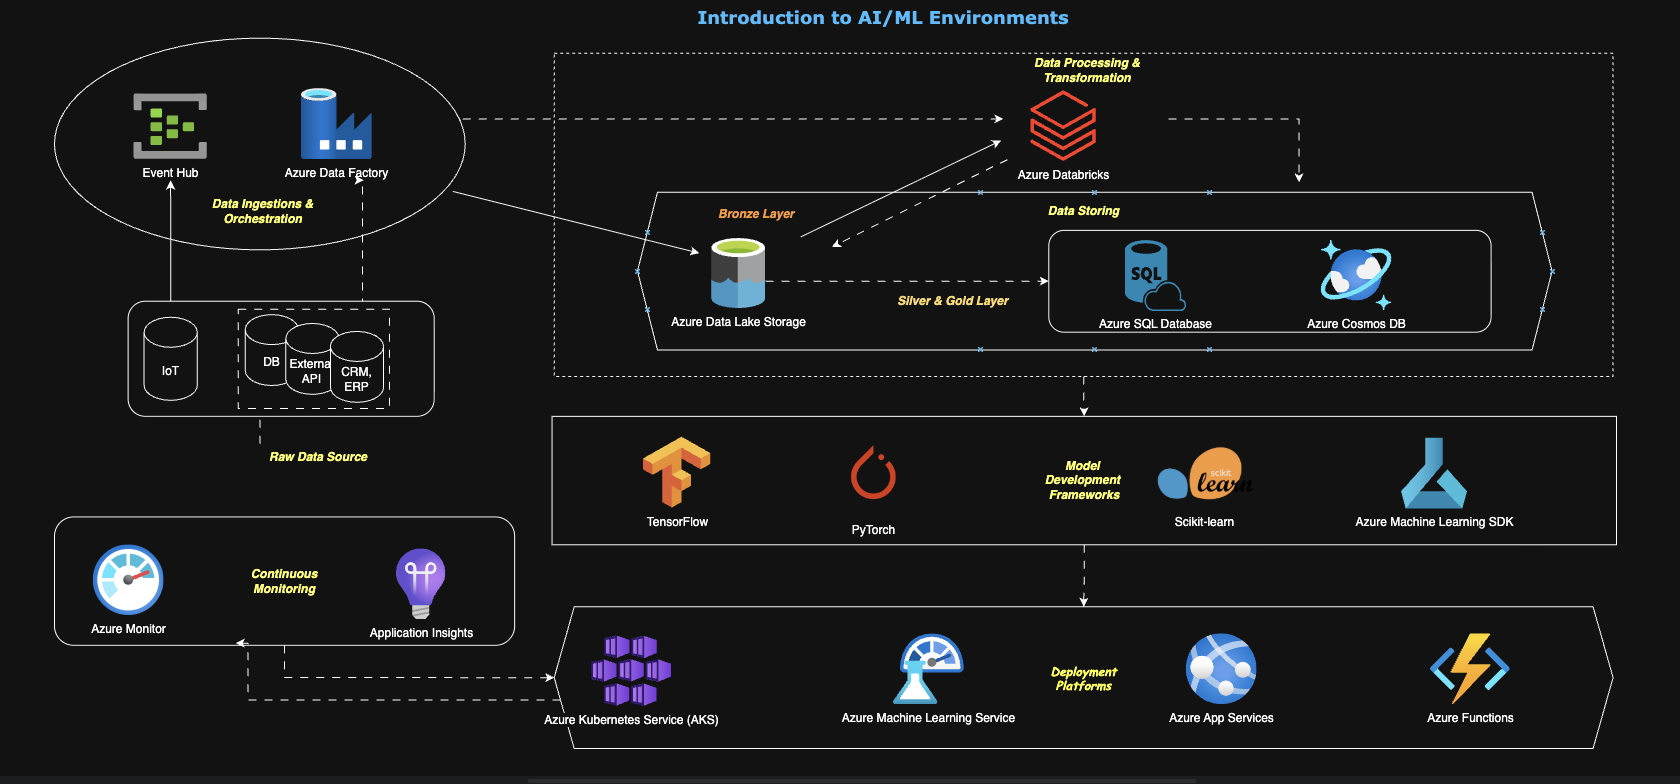
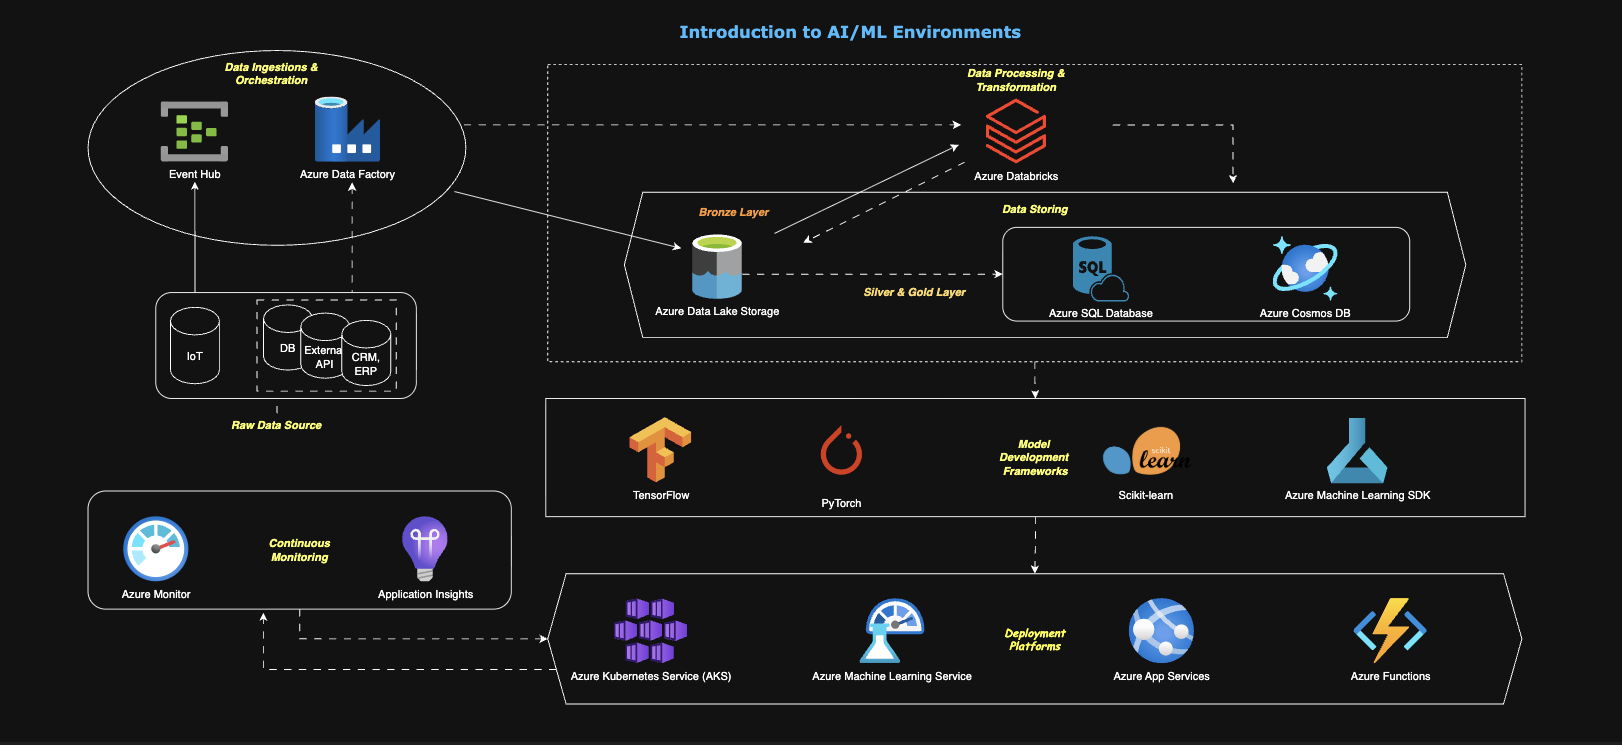
feat: set the module page like an article, and give it notes
The breakdown was a grid of bordered cards; it is now headings and labelled lists set with the blog's typography, which is what a module explanation wants. The diagram is swapped for the cleaner redraw.

Every content page now shares one measure: /next and its three levels, /blog and its posts all use the home sections' max-w-6xl, so the site no longer alternates between a narrow reading column and a wide one. Below the breakdown, a notes section carries the module's own material, condensed into markdown blocks and rendered by the same component the blog uses.

diff --git a/app/data/roadmap.ts b/app/data/roadmap.ts
@@ -22,6 +22,12 @@ export type RoadmapModule = {
    * picture says what is there; this says what each part is for.
    */
   breakdown: { group: string; items: { name: string; role: string }[] }[];
+  /**
+   * The module's own material, condensed, as markdown blocks. Rendered after
+   * the breakdown: the diagram and the list say what the module contains, this
+   * says what it means.
+   */
+  notes: string[];
 };
 
 export type RoadmapCourse = {
@@ -84,8 +90,8 @@ export const roadmapSteps: RoadmapStep[] = [
               alt: "Diagram of the Azure AI/ML environment: Event Hub and Data Factory ingesting IoT, database, external API and CRM/ERP sources into Databricks over a Data Lake with bronze, silver and gold layers, SQL Database and Cosmos DB as stores, TensorFlow, PyTorch, scikit-learn and the Azure Machine Learning SDK for model development, and AKS, Azure Machine Learning Service, App Service and Functions behind Monitor and Application Insights.",
               caption: "The Azure AI/ML environment, end to end.",
               credit: "Diagrammed by Frank Angelo Malubag",
-              width: 1680,
-              height: 784,
+              width: 1622,
+              height: 745,
             },
             breakdown: [
               {
@@ -203,6 +209,15 @@ export const roadmapSteps: RoadmapStep[] = [
                   },
                 ],
               },
+            ],
+            notes: [
+              "### What the module is about\n\nAI/ML infrastructure is the cloud-based tools, services and resources that carry a model through its entire lifecycle. The course frames it as three pillars, and the argument is that infrastructure comes before technique.\n\n- **Data pipelines**: how data is ingested, processed, stored and served to models.\n- **Model development frameworks**: the libraries that build, train and evaluate models.\n- **Deployment platforms**: the services that put a trained model into production.\n\nBefore supervised learning or pre-trained LLMs, you need to know how data flows through systems, how models are built inside frameworks, and how they reach production.",
+              "### The working environment\n\nThe course runs in Azure Machine Learning Studio. The lab is set up in four moves:\n\n- **Workspace**: create one at ml.azure.com, then add a notebook.\n- **Kernel**: select the Python - AzureML kernel, which carries the machine learning libraries the course uses.\n- **Resources**: the lab runs on a resource group with virtual machines and SSH access.\n- **Reproducibility**: save the setup as an Azure Resource Manager template so it can be recreated.",
+              "### Data sources and pipelines\n\nA pipeline is a series of automated processes that move data from source to destination, transforming it along the way. Sources come in four kinds:\n\n- **Relational databases**: SQL Server, MySQL, PostgreSQL.\n- **NoSQL stores**: Azure Cosmos DB, MongoDB.\n- **Cloud object storage**: Azure Blob Storage, Amazon S3.\n- **Real-time streams**: IoT sensors, APIs.\n\nThe pipeline then runs through four stages:\n\n- **Ingestion**: collects the data, in real time or in batches; Azure Data Factory schedules and orchestrates it.\n- **Processing and transformation**: cleans, normalises, aggregates and engineers features; Azure Databricks, built on Apache Spark, does the heavy work.\n- **Storage**: Azure Data Lake Storage for raw unstructured data, Azure SQL Database for structured data that needs advanced queries, Azure Blob Storage for files and media.\n- **Access and utilisation**: Azure Machine Learning trains the models, Power BI reports on them.\n\nModel quality is bounded by data quality, which is why the pipeline comes first.",
+              "### Choosing a framework\n\nModel development is the cycle of selecting an algorithm, training on data while tuning hyperparameters, and evaluating until the model generalises to new data. Four frameworks dominate:\n\n- **TensorFlow**: deep learning, with eager execution for prototyping and graph execution for optimised runs; TensorFlow Serving for production.\n- **PyTorch**: the research favourite, with dynamic computation graphs that are easier to debug; TorchScript for deployment.\n- **scikit-learn**: traditional machine learning, with regression, classification, clustering, preprocessing and evaluation behind one consistent API.\n- **Azure Machine Learning SDK**: the Azure-native layer, integrating with Data Factory, Databricks and AKS; AutoML for baselines, experiment tracking and managed deployment.\n\nThe selection factors are the nature of the problem, data type and size, performance requirements, ease of use, deployment and maintenance, and total cost of ownership.",
+              "### Choosing a deployment platform\n\nDeployment takes a trained model and makes it available in a real environment: as a service, inside a web application, or on a device. Azure offers four routes:\n\n- **Azure Kubernetes Service**: containerises the model and runs it across a cluster, with autoscaling, load balancing and high availability; suits large-scale, high-traffic systems.\n- **Azure Machine Learning Service**: deploys a model as a RESTful endpoint in a few clicks; adds automated machine learning and model management.\n- **Azure App Service**: hosts web applications and APIs with built-in scaling, security and monitoring.\n- **Azure Functions**: serverless and event-driven, so you pay per execution and the model runs only when triggered.\n\nSix factors decide the choice: deployment speed, cost efficiency, ease of use, scalability, updates and maintenance, and security and compliance. The module's tips follow from those factors:\n\n- Azure Machine Learning Service for rapid prototyping and low-latency predictions.\n- Azure Functions or Azure Container Instances for infrequent or temporary deployments.\n- AKS for enterprise scale, and reserved instances for long-term runs.",
+              "### Monitoring and maintenance\n\nDeployment is not the end of the loop. Two services watch a deployed model:\n\n- **Azure Monitor**: platform metrics and logs across every Azure resource.\n- **Application Insights**: application telemetry, meaning requests, dependencies, exceptions and user flows.\n\nAzure DevOps sits beside them for continuous integration and deployment, so updates, rollbacks and testing are automated rather than manual. The module points onward from here to model observability and drift detection as the next layer of the same problem.",
+              "### How the course is assessed\n\nThe course is graded in six parts:\n\n- **Five quizzes, 15% each**: AI/ML applications; data management in AI/ML; selecting a framework; platform deployment; AI/ML concepts in practice.\n- **One peer review, 25%**: draft your pitch to the C-suite.\n\nIt is the first of five courses in the Microsoft AI & ML Engineering Professional Certificate:\n\n- AI and Machine Learning Algorithms and Techniques.\n- Building Intelligent Troubleshooting Agents.\n- Microsoft Azure for AI and Machine Learning.\n- Advanced AI and Machine Learning Techniques and Capstone.",
             ],
           },
         ],

diff --git a/app/next/[slug]/[course]/[module]/page.tsx b/app/next/[slug]/[course]/[module]/page.tsx
@@ -6,6 +6,7 @@ import { canonical } from "../../../../lib/siteUrl";
 import { ogImage } from "../../../../lib/ogImage";
 import TrackClose from "../../../../components/TrackClose";
 import RoadmapFigure from "../../../../components/RoadmapFigure";
+import { Markdown } from "../../../../lib/markdown";
 
 export function generateStaticParams() {
   return roadmapSteps.flatMap((step) =>
@@ -62,7 +63,7 @@ export default async function RoadmapModulePage({
 
   return (
     <main className="px-4 sm:px-6 pt-28 pb-24 min-h-screen">
-      <div className="mx-auto max-w-6xl">
+      <article className="mx-auto max-w-6xl">
         <Link
           href={`/next/${step.id}/${course.slug}`}
           className="text-xs text-slate-400 hover:text-slate-300 transition-colors"
@@ -77,40 +78,50 @@ export default async function RoadmapModulePage({
           <h1 className="text-3xl md:text-4xl font-black tracking-tight font-display text-slate-100 leading-tight">
             {mod.title}
           </h1>
-          <p className="text-sm md:text-base text-slate-400 leading-relaxed max-w-2xl">
+          <p className="text-sm md:text-base text-slate-400 leading-relaxed">
             {mod.summary}
           </p>
         </header>
 
         {/* The picture the breakdown refers to, so the page stands alone. */}
-        {mod.image ? <RoadmapFigure image={mod.image} /> : null}
+        {mod.image ? (
+          <div className="my-6">
+            <RoadmapFigure image={mod.image} />
+          </div>
+        ) : null}
 
-        {/* The breakdown: every component the diagram lists, and what it is
-            actually for. Grouped the way the diagram groups them. */}
-        <section className="mt-10 mb-12 space-y-8">
+        {/* The breakdown, set like an article's lists: a heading per group from
+            the diagram, then the components in it and what each is for. */}
+        <section className="mt-8 mb-12">
           {mod.breakdown.map((group) => (
-            <div key={group.group} className="space-y-3">
-              <h2 className="text-xs font-mono uppercase tracking-widest text-[#5f93a8]">
+            <div key={group.group} className="mt-6 first:mt-0">
+              <h2 className="text-xl font-semibold text-slate-100 mb-2">
                 {group.group}
               </h2>
-              <ul className="grid gap-3 sm:grid-cols-2 lg:grid-cols-3">
+              <ul className="list-disc list-inside space-y-1.5 my-3 text-sm text-slate-300 leading-relaxed marker:text-[#5f93a8]">
                 {group.items.map((item) => (
-                  <li
-                    key={item.name}
-                    className="p-3 rounded-lg bg-slate-900/40 border border-slate-800/60"
-                  >
-                    <p className="text-sm font-semibold text-slate-100">
+                  <li key={item.name}>
+                    <strong className="text-slate-100 font-semibold">
                       {item.name}
-                    </p>
-                    <p className="mt-1 text-sm text-slate-400 leading-relaxed">
-                      {item.role}
-                    </p>
+                    </strong>
+                    : {item.role}
                   </li>
                 ))}
               </ul>
             </div>
           ))}
         </section>
+
+        {/* The module's own material, condensed, below the breakdown: what the
+            module means rather than what it contains. */}
+        {mod.notes.length > 0 ? (
+          <section className="mt-10 mb-12">
+            <h2 className="text-xl font-semibold text-slate-100 mb-3">
+              Module notes
+            </h2>
+            <Markdown content={mod.notes.join("\n\n")} />
+          </section>
+        ) : null}
 
         <TrackClose
           note="This is the breakdown of the diagram above: what each component is, and why it sits where it does in the pipeline. The course page carries the picture; the certificate page carries the plan it belongs to."
@@ -121,7 +132,7 @@ export default async function RoadmapModulePage({
             { label: "Get in touch", href: "/#contact" },
           ]}
         />
-      </div>
+      </article>
     </main>
   );
 }

diff --git a/app/blog/[slug]/page.tsx b/app/blog/[slug]/page.tsx
@@ -54,7 +54,7 @@ export default async function BlogPost({
 
   return (
     <main className="px-4 sm:px-6 pt-28 pb-24 min-h-screen">
-      <article className="mx-auto max-w-3xl">
+      <article className="mx-auto max-w-6xl">
         {/* Article entity, attached to the Person entity declared site-wide so
             the posts are attributable to the same author. */}
         <script

diff --git a/app/next/page.tsx b/app/next/page.tsx
@@ -22,7 +22,7 @@ export const metadata: Metadata = {
 export default function NextPage() {
   return (
     <main className="px-4 sm:px-6 pt-28 pb-24 min-h-screen">
-      <div className="mx-auto max-w-3xl">
+      <div className="mx-auto max-w-6xl">
         <Link
           href="/"
           className="text-xs text-slate-400 hover:text-slate-300 transition-colors"

diff --git a/app/next/[slug]/page.tsx b/app/next/[slug]/page.tsx
@@ -57,7 +57,7 @@ export default async function RoadmapStepPage({
 
   return (
     <main className="px-4 sm:px-6 pt-28 pb-24 min-h-screen">
-      <div className="mx-auto max-w-3xl">
+      <div className="mx-auto max-w-6xl">
         <Link
           href="/next"
           className="text-xs text-slate-400 hover:text-slate-300 transition-colors"

diff --git a/app/blog/page.tsx b/app/blog/page.tsx
@@ -17,7 +17,7 @@ export default function BlogArchive() {
 
   return (
     <main className="px-4 sm:px-6 pt-28 pb-24 min-h-screen">
-      <div className="mx-auto max-w-3xl">
+      <div className="mx-auto max-w-6xl">
         <Link
           href="/"
           className="text-xs text-slate-400 hover:text-slate-300 transition-colors"

diff --git a/README.md b/README.md
@@ -149,7 +149,7 @@ Below the library, `ReadingPlan.tsx` renders the priority order for the AI engin
 
 `/next` is a forward-looking page: six steps in three phases. The foundation first (the Microsoft AI & ML Engineering Professional Certificate, then the DeepLearning.AI Machine Learning Specialization), then the platform and the applied layer (the AWS Cloud Solutions Architect and AWS Generative AI Developer Advanced Professional Certificates), then LangChain Academy and Stanford CS221. Content lives in `app/data/roadmap.ts`. Every step carries an `order` phase label, and the page closes with the shared `TrackClose` "where this fits" block.
 
-Each step also has its own page at `/next/[slug]` (`app/next/[slug]/page.tsx`, static through `generateStaticParams`, with per-page metadata and canonical), and beneath it two more levels: `/next/[slug]/[course]` (`app/next/[slug]/[course]/page.tsx`) carries the course's summary and indexes its modules, each as a `RoadmapModuleCard` stacking that module's diagram under its hook; `/next/[slug]/[course]/[module]` (`app/next/[slug]/[course]/[module]/page.tsx`) is the module's breakdown, one card per component the diagram lists, grouped the way the diagram groups them. Both diagram pages use the home sections' `max-w-6xl` measure rather than the narrow reading column, because the figure is the point of those pages. The summary stays next to the picture on purpose: an image of text is neither screen-reader readable nor indexable, so the figure illustrates rather than replaces it. The sitemap derives all three levels from `roadmapSteps` the way it does posts.
+Each step also has its own page at `/next/[slug]` (`app/next/[slug]/page.tsx`, static through `generateStaticParams`, with per-page metadata and canonical), and beneath it two more levels: `/next/[slug]/[course]` (`app/next/[slug]/[course]/page.tsx`) carries the course's summary and indexes its modules, each as a `RoadmapModuleCard` stacking that module's diagram under its hook; `/next/[slug]/[course]/[module]` (`app/next/[slug]/[course]/[module]/page.tsx`) is the module's breakdown, set like a blog article — a heading and list per group the diagram shows, the components named and their part in the pipeline explained, with no card chrome — and below that a `notes` block: the module's own material condensed into markdown sections, rendered by the same `Markdown` component the blog uses. Every content page — `/next` and its three levels, `/blog` and its posts — uses the home sections' `max-w-6xl` measure, so the site has one column width rather than a narrow reading column beside wide ones. The summary stays next to the picture on purpose: an image of text is neither screen-reader readable nor indexable, so the figure illustrates rather than replaces it. The sitemap derives all three levels from `roadmapSteps` the way it does posts.
 
 ## Reading Plan
 
